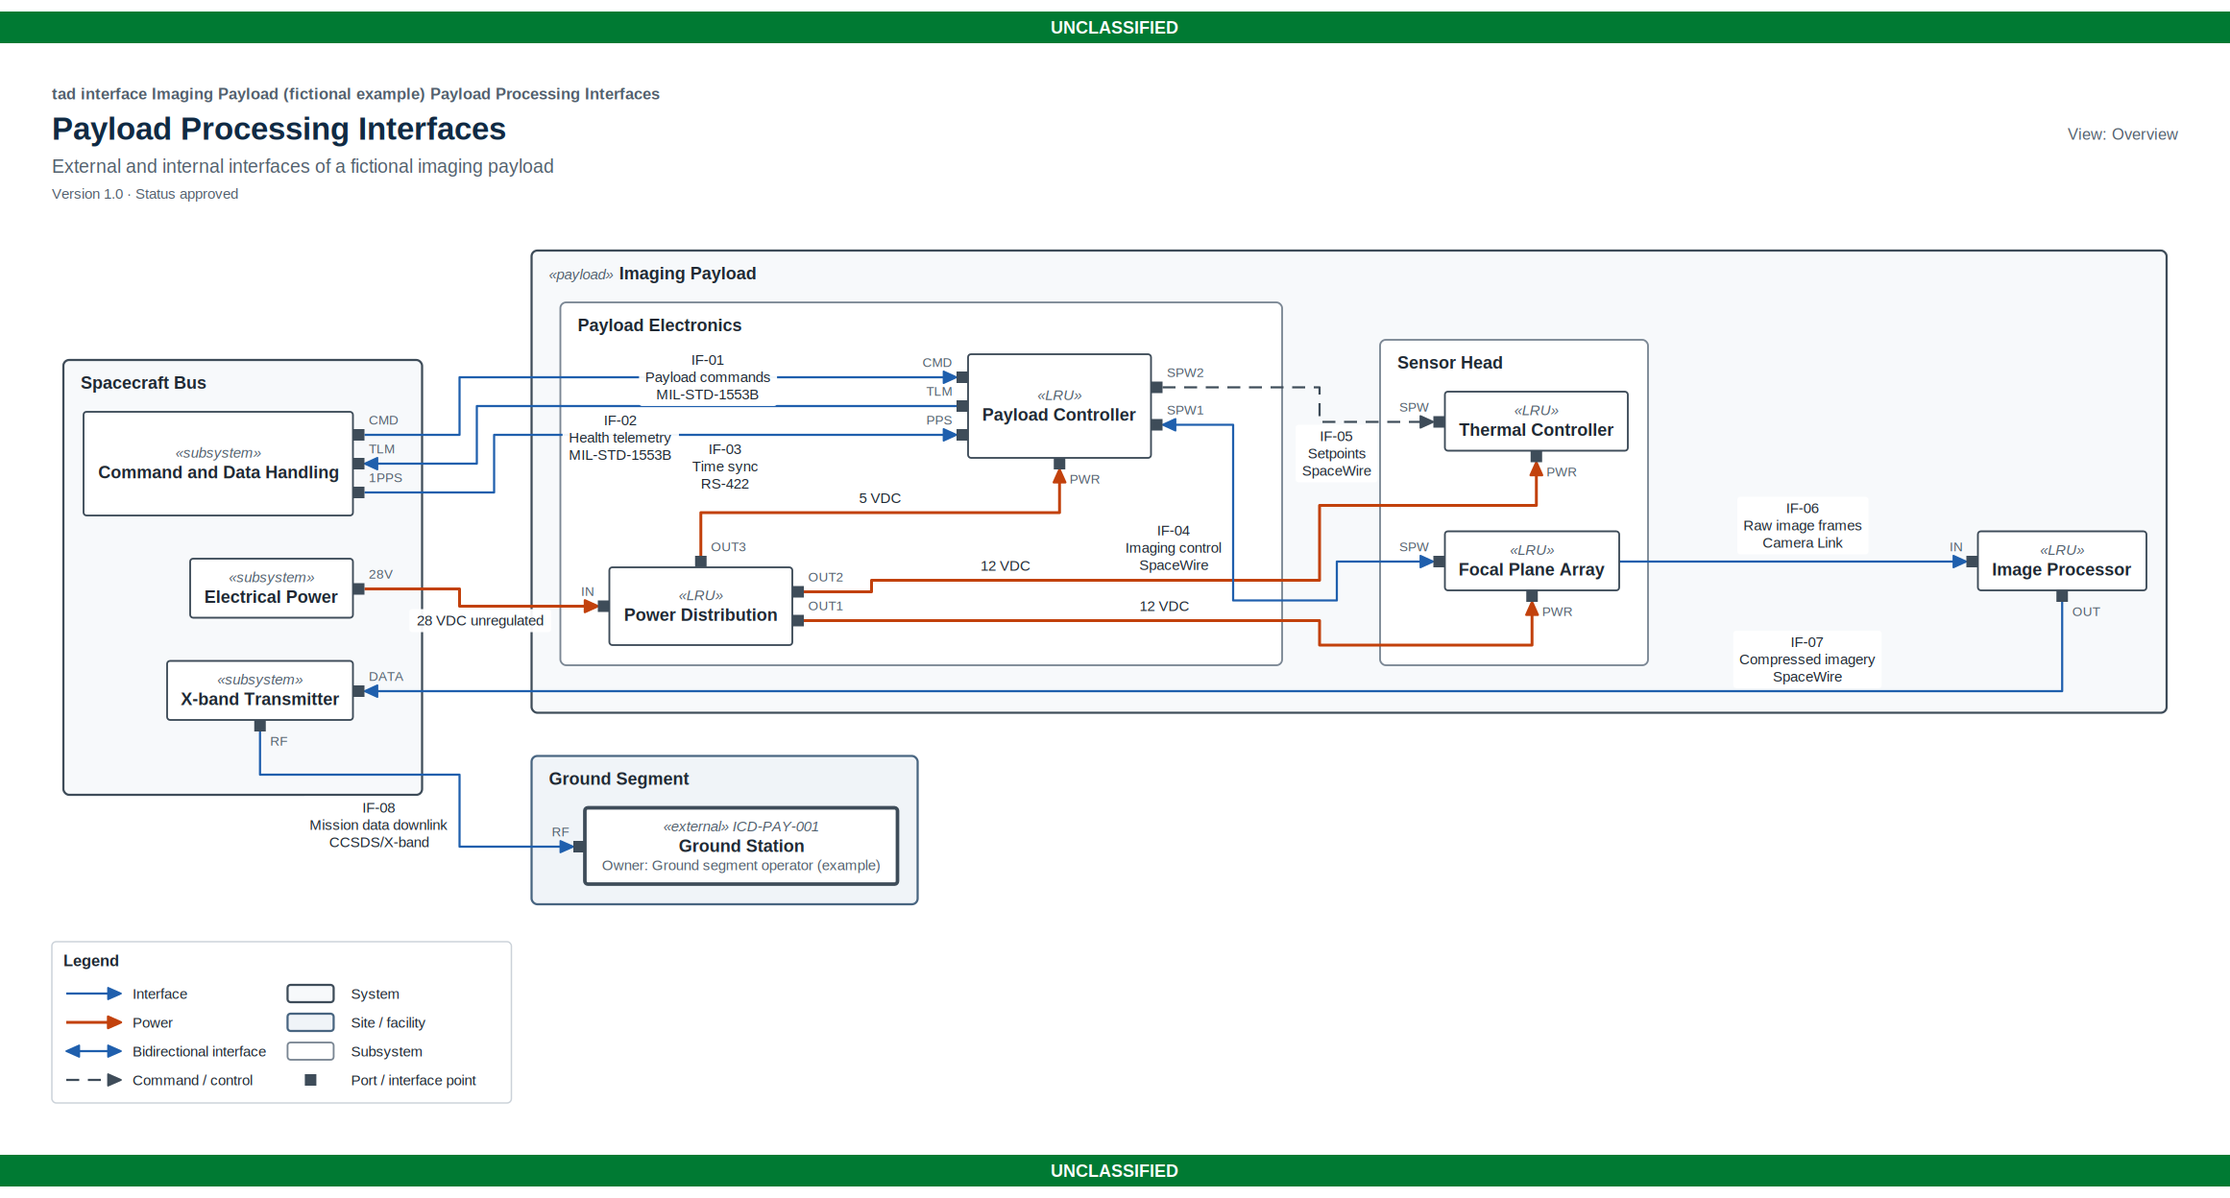
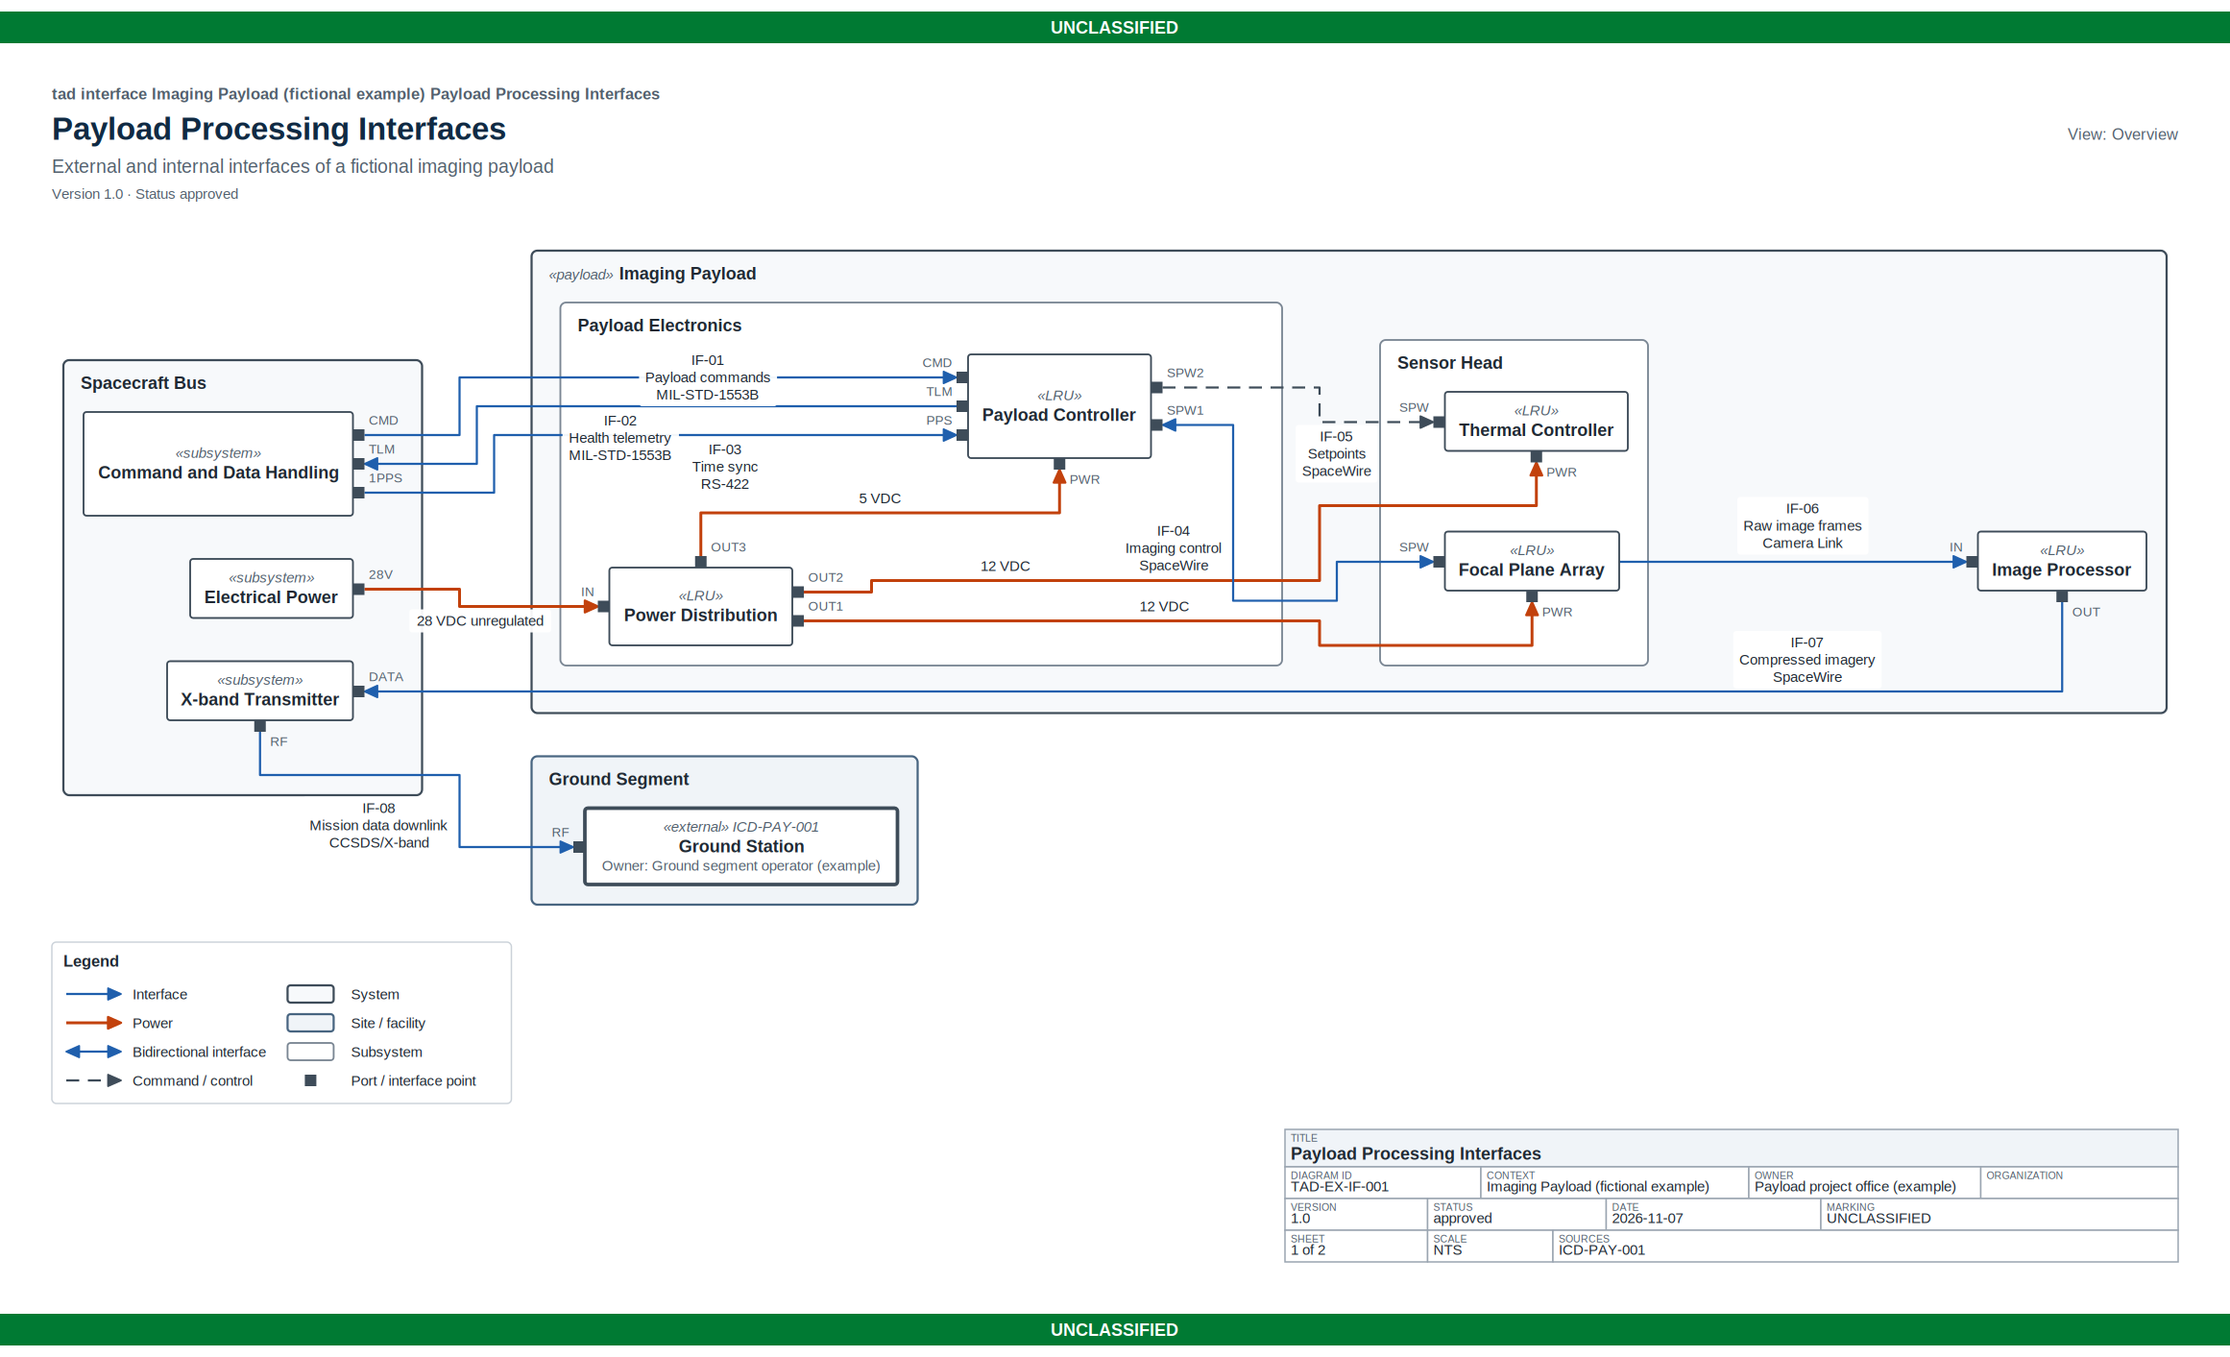
Add the generated title block (tad 0.3.0)
The released-sheet layer of the provenance profile: a title block in the
engineering drawing manner, drawn at the bottom right of every page and
generated entirely from spec metadata. On by default in strict mode, off
in light, overridable per spec with title_block.

Cells: title; diagram id, context, owner, organization; version, status,
date, marking; sheet (page n of m), scale NTS, and source ids. Approval
cells (prepared_by, checked_by, approved_by) appear only when the spec
supplies them; no date or approver is ever invented. The flag is also
recorded as tad_title_block in the .drawio metadata and in the build
report. New spec fields: organization, date, prepared_by, checked_by,
approved_by. Reference docs and the strict templates updated; the two
strict shipped examples regenerated with the block drawn.

Human-Curated, AI-Enabled (HCAE)

diff --git a/scripts/tad/layout.py b/scripts/tad/layout.py
@@ -445,9 +445,67 @@ def chips_line(spec):
     return " · ".join(chips) if chips else None
 
 
+TB_TITLE_H = 26
+TB_ROW_H = 22
+
+
+def _fit(text, size, w, bold=False):
+    """Truncate text with an ellipsis so it fits one cell of width w."""
+    t = str(text or "")
+    if T.width(t, size, bold) <= w:
+        return t
+    while t and T.width(t + "…", size, bold) > w:
+        t = t[:-1]
+    return (t + "…") if t else ""
+
+
+def make_title_block(spec, avail_w):
+    """Generated release title block (provenance profile), or None when off.
+
+    Returns {w, h, cells} with cell coordinates relative to the block origin;
+    the caller positions x/y. Every value comes from spec metadata; approval
+    cells appear only when the spec supplies them, and nothing is invented.
+    """
+    if not spec.get("title_block"):
+        return None
+    w = round(max(300, min(620, avail_w)))
+    cells = []
+    y = 0
+
+    def row(h, parts):
+        nonlocal y
+        x = 0
+        for i, (frac, label, value, is_title) in enumerate(parts):
+            cw = w - x if i == len(parts) - 1 else round(w * frac)
+            size = 12 if is_title else 10
+            cells.append(dict(dx=x, dy=y, w=cw, h=h, label=label,
+                              value=_fit(value, size, cw - 8, bold=is_title), title=is_title))
+            x += cw
+        y += h
+
+    row(TB_TITLE_H, [(1.0, "TITLE", spec["title"], True)])
+    row(TB_ROW_H, [(0.22, "DIAGRAM ID", spec.get("id"), False),
+                   (0.30, "CONTEXT", spec.get("context"), False),
+                   (0.26, "OWNER", spec.get("owner"), False),
+                   (0.22, "ORGANIZATION", spec.get("organization"), False)])
+    row(TB_ROW_H, [(0.16, "VERSION", spec.get("version"), False),
+                   (0.20, "STATUS", spec.get("status"), False),
+                   (0.24, "DATE", spec.get("date"), False),
+                   (0.40, "MARKING", spec.get("marking"), False)])
+    row(TB_ROW_H, [(0.16, "SHEET", spec.get("_sheet") or "1 of 1", False),
+                   (0.14, "SCALE", "NTS", False),
+                   (0.70, "SOURCES", ", ".join(s["id"] for s in spec.get("sources", [])), False)])
+    if any(spec.get(k) for k in ("prepared_by", "checked_by", "approved_by")):
+        row(TB_ROW_H, [(0.34, "PREPARED BY", spec.get("prepared_by"), False),
+                       (0.33, "CHECKED BY", spec.get("checked_by"), False),
+                       (0.33, "APPROVED BY", spec.get("approved_by"), False)])
+    return dict(w=w, h=y, cells=cells)
+
+
 def scene_meta(spec):
     """Spec metadata embedded into the .drawio file (the digital title block)."""
     meta = OrderedDict(kind=spec["kind"], provenance=spec.get("provenance", "light"))
+    meta["title_block"] = "on" if spec.get("title_block") else "off"
     for k in ("id", "context", "owner", "version", "status"):
         if spec.get(k):
             meta[k] = spec[k]
@@ -624,6 +682,18 @@ def _scene(spec, view, containers, nodes, edges, direction, label_edges):
         sc["notes_box"] = nb
         height = nb["y"] + nb["h"]
         width = max(width, nb["x"] + nb["w"] + MARGIN)
+
+    # Generated title block (provenance profile): bottom-right release block.
+    tb = make_title_block(spec, width - 2 * MARGIN)
+    if tb:
+        tb["x"] = max(left, round(width - MARGIN - tb["w"]))
+        tb["y"] = height + 18
+        for c in tb["cells"]:
+            c["x"] = tb["x"] + c["dx"]
+            c["y"] = tb["y"] + c["dy"]
+        sc["title_block"] = tb
+        height = tb["y"] + tb["h"]
+        width = max(width, tb["x"] + tb["w"] + MARGIN)
     height += MARGIN + (BANNER_H + 8 if spec.get("marking") else 0)
     sc["width"], sc["height"] = round(width), round(height)
     return sc
@@ -736,9 +806,21 @@ def table_scene(spec, base_scene):
                      containers=[], nodes=[], edges=[])
     tw = sum(c[2] for c in cols)
     sc["table"] = dict(x=MARGIN, y=top, cols=cols, rows=rows, row_h=rh, w=tw, h=rh * (len(rows) + 1))
-    sc["title_w"] = T.width(spec["title"], L.FONT_TITLE, bold=True)
+    sc["title_w"] = max(T.width(spec["title"], L.FONT_TITLE, bold=True),
+                        T.width(frame_line(spec), 11, bold=True))
     sc["width"] = round(max(MARGIN * 2 + tw, MARGIN * 2 + sc["title_w"]))
-    sc["height"] = round(top + rh * (len(rows) + 1) + MARGIN + (BANNER_H + 8 if spec.get("marking") else 0))
+    bottom = top + rh * (len(rows) + 1)
+    tb = make_title_block(spec, tw)
+    if tb:
+        tb["x"] = MARGIN + max(0, tw - tb["w"])
+        tb["y"] = bottom + 18
+        for c in tb["cells"]:
+            c["x"] = tb["x"] + c["dx"]
+            c["y"] = tb["y"] + c["dy"]
+        sc["title_block"] = tb
+        bottom = tb["y"] + tb["h"]
+        sc["width"] = max(sc["width"], round(tb["x"] + tb["w"] + MARGIN))
+    sc["height"] = round(bottom + MARGIN + (BANNER_H + 8 if spec.get("marking") else 0))
     sc["diagram_box"] = (MARGIN, top, tw, rh * (len(rows) + 1))
     return sc
 

diff --git a/scripts/tad/spec.py b/scripts/tad/spec.py
@@ -139,7 +139,8 @@ def normalize(raw):
         spec["marking"] = str(m).strip()
 
     # Provenance metadata (reference/provenance_profile.md): the digital title block.
-    for key in ("id", "context", "owner", "version"):
+    for key in ("id", "context", "owner", "version",
+                "organization", "date", "prepared_by", "checked_by", "approved_by"):
         v = _pick(raw, [key], fixes, "spec", key)
         if v not in (None, ""):
             spec[key] = str(v).strip()
@@ -178,6 +179,27 @@ def normalize(raw):
             issues.append(issue("WARNING", f"sources[{j}]", "source must be a string or an object"))
     if sources:
         spec["sources"] = sources
+
+    # Generated title block (provenance profile): on by default in strict mode, off in light.
+    tb = raw.get("title_block")
+    if tb is None:
+        spec["title_block"] = spec["provenance"] == "strict"
+        spec["title_block_default"] = True
+    elif isinstance(tb, bool):
+        spec["title_block"] = tb
+    else:
+        t = str(tb).strip().lower()
+        if t in ("auto", "default"):
+            spec["title_block"] = spec["provenance"] == "strict"
+            spec["title_block_default"] = True
+        elif t in ("on", "true", "yes"):
+            spec["title_block"] = True
+        elif t in ("off", "false", "no"):
+            spec["title_block"] = False
+        else:
+            issues.append(issue("ERROR", "title_block", f"unknown title_block value '{tb}'",
+                                "use true, false or auto"))
+            spec["title_block"] = spec["provenance"] == "strict"
 
     page = str(raw.get("page", "auto")).strip().lower().replace(" ", "")
     if page not in S.PAGE_SIZES:
@@ -682,7 +704,8 @@ def content_checks(spec):
             for k, v in enumerate(x):
                 scan(v, f"{path}[{k}]")
     for key in ("title", "subtitle", "marking", "edges", "views",
-                "id", "context", "owner", "version", "sources", "notes"):
+                "id", "context", "owner", "version", "sources", "notes",
+                "organization", "date", "prepared_by", "checked_by", "approved_by"):
         if key in spec:
             scan(spec[key], key)
     for i, e in enumerate(spec["edges"]):

diff --git a/scripts/make_tad.py b/scripts/make_tad.py
@@ -104,6 +104,7 @@ def main(argv=None):
     report["tool_version"] = __version__
     report["provenance"] = spec.get("provenance", "light")
     report["provenance_default"] = bool(spec.get("provenance_default"))
+    report["title_block"] = bool(spec.get("title_block"))
 
     issues += SP.content_checks(spec)
     if not T.font_available():
@@ -136,9 +137,11 @@ def main(argv=None):
 
     issues += C.spec_checks(spec)
     views = spec.get("views") or [None]
+    total_pages = len(views) + (1 if spec.get("interface_table") and spec["edges"] else 0)
     scenes = []
     try:
         for vi, v in enumerate(views):
+            spec["_sheet"] = f"{vi + 1} of {total_pages}"
             sc = LY.layout_view(spec, v, issues, "" if vi == 0 else "v")
             issues += C.scene_checks(sc, spec, len(views) > 1)
             scenes.append(sc)
@@ -149,6 +152,7 @@ def main(argv=None):
         _print(report, "INVALID", None, clean_path, fixes, dedupe(issues), None)
         return 2
     if spec.get("interface_table") and spec["edges"]:
+        spec["_sheet"] = f"{total_pages} of {total_pages}"
         scenes.append(LY.table_scene(spec, scenes[0]))
 
     D.write(scenes, a.out)
@@ -207,6 +211,7 @@ def _print(report, result, out, clean, fixes, issues, extras):
     if report.get("provenance"):
         print(f"PROVENANCE: {report['provenance']}"
               + (" (default for kind)" if report.get("provenance_default") else "")
+              + f"  TITLE BLOCK: {'on' if report.get('title_block') else 'off'}"
               + f"  TOOL: tad {report.get('tool_version', '')}  SPEC SHA256: {report.get('spec_sha256', '')[:16]}...")
     for v in report["views"]:
         print(f"VIEW {v['name']!r}: {v['nodes']} nodes, {v['edges']} edges, {v['crossings']} crossings, "

diff --git a/scripts/tad/drawio.py b/scripts/tad/drawio.py
@@ -137,6 +137,8 @@ def page_from_scene(sc):
 
     if sc.get("table"):
         _table(pg, sc, th)
+        if sc.get("title_block"):
+            _title_block(pg, sc["title_block"], th)
         return pg.diagram
 
     absb = {}
@@ -253,7 +255,23 @@ def page_from_scene(sc):
                    "fillColor": "#FFFBEA", "strokeColor": "#CBD2D9", "verticalAlign": "top", "align": "left",
                    "spacingLeft": 8, "spacingTop": 2, "fontSize": L.FONT_LEGEND, "fontFamily": th["font"],
                    "fontColor": _h(th["text"])}, nb["x"], nb["y"], nb["w"], nb["h"])
+    if sc.get("title_block"):
+        _title_block(pg, sc["title_block"], th)
     return pg.diagram
+
+
+def _title_block(pg, tb, th):
+    for i, c in enumerate(tb["cells"]):
+        value = f'<span style="font-size:7px;color:{_h(th["muted"])}">{hesc(c["label"])}</span>'
+        if c["value"]:
+            v = f"<b>{hesc(c['value'])}</b>" if c["title"] else hesc(c["value"])
+            value += f'<br><span style="font-size:{12 if c["title"] else 10}px">{v}</span>'
+        pg.vertex(f"tb{i}", value,
+                  {"rounded": 0, "html": 1, "whiteSpace": "wrap",
+                   "fillColor": "#F0F4F8" if c["title"] else "#FFFFFF", "strokeColor": "#9AA5B1",
+                   "verticalAlign": "top", "align": "left", "spacingLeft": 4, "spacingTop": 1,
+                   "fontSize": 10, "fontFamily": th["font"], "fontColor": _h(th["text"])},
+                  c["x"], c["y"], c["w"], c["h"])
 
 
 def _anchor(prefix, pt, b):

diff --git a/scripts/tad/svg.py b/scripts/tad/svg.py
@@ -80,6 +80,8 @@ def render(sc):
 
     if sc.get("table"):
         o += _table(sc, th)
+        if sc.get("title_block"):
+            o += _title_block(sc["title_block"], th)
         o.append("</svg>")
         return "\n".join(o)
 
@@ -131,8 +133,23 @@ def render(sc):
         o += _legend(sc["legend"], th)
     if sc.get("notes_box"):
         o += _notes(sc["notes_box"], th)
+    if sc.get("title_block"):
+        o += _title_block(sc["title_block"], th)
     o.append("</svg>")
     return "\n".join(o)
+
+
+def _title_block(tb, th):
+    o = []
+    for c in tb["cells"]:
+        fill = "#F0F4F8" if c["title"] else "#FFFFFF"
+        o.append(f'<rect x="{c["x"]:.1f}" y="{c["y"]:.1f}" width="{c["w"]:.1f}" height="{c["h"]:.1f}" '
+                 f'fill="{fill}" stroke="#9AA5B1" stroke-width="1"/>')
+        o.append(_text(c["x"] + 4, c["y"] + 8.5, c["label"], 7, th["muted"]))
+        if c["value"]:
+            o.append(_text(c["x"] + 4, c["y"] + c["h"] - 5, c["value"], 12 if c["title"] else 10,
+                           th["text"], bold=c["title"]))
+    return o
 
 
 def _notes(nb, th):

diff --git a/scripts/tad/__init__.py b/scripts/tad/__init__.py
@@ -1,2 +1,2 @@
 """Technical Architecture Diagram engine: spec -> ELK layout -> draw.io + SVG."""
-__version__ = "0.2.0"
+__version__ = "0.3.0"

diff --git a/SKILL.md b/SKILL.md
@@ -43,7 +43,7 @@ Copy the template (for example to `spec.json`) and replace every `<<...>>` with 
 7. **Labels:** short and specific. An edge label has at most three lines: label, data, protocol/port. Put long detail in the interface table rather than on the line.
 8. **Delete** template items you have no content for. Never leave `<<...>>`.
 9. **Density:** more than about 40 nodes on one page gets hard to read. Add `views`: a full view plus summary views that `collapse` containers, filter `edge_types`, or `include` one area.
-10. **Provenance:** every diagram gets a frame header from its metadata (`id`, `context`, `owner`, `version`, `status`, `sources`). `interface` and `dataflow` specs are strict by default: those fields are required, external elements need `owner` and `source_ref`, and boundary-crossing flows need a `marking`. Other kinds are light. Full rules: `reference/provenance_profile.md`.
+10. **Provenance:** every diagram gets a frame header from its metadata (`id`, `context`, `owner`, `version`, `status`, `sources`). `interface` and `dataflow` specs are strict by default: those fields are required, external elements need `owner` and `source_ref`, boundary-crossing flows need a `marking`, and a generated title block is drawn (set `title_block` to override). Other kinds are light and draw no title block by default. Full rules: `reference/provenance_profile.md`.
 
 Before the first build, check the spec and see the limits:
 ```

diff --git a/reference/spec_reference.md b/reference/spec_reference.md
@@ -19,6 +19,10 @@ Numeric limits are not repeated here. See `reference/limits.md` or run `python3 
 | `version` | no | Diagram version, drawn as a header chip. |
 | `status` | no | `draft`, `review`, or `approved`. Drawn as a header chip. Required in strict mode. |
 | `provenance` | no | `light` or `strict` (provenance profile). Defaults to `strict` for `interface` and `dataflow`, `light` otherwise. |
+| `title_block` | no | `true`, `false`, or `auto`: draw the generated title block (provenance profile). Defaults to on in strict mode, off in light. |
+| `organization` | no | Organization named in the title block. |
+| `date` | no | Date shown in the title block, as written (e.g. `2026-11-07`). Never invented: no date field, no date in the block. |
+| `prepared_by`, `checked_by`, `approved_by` | no | Approval names for the title block. The approval row appears only when at least one is set. |
 | `sources` | no | Authority references: a list of `{"id", "title"}` objects (or plain id strings). Embedded in the .drawio file; `trace` targets resolve against it. |
 | `notes` | no | Rationale/problem notes: `{"id", "kind" (rationale\|problem), "anchor" (element id), "text", "show"}`. Drawn in a notes panel only when `show` is true. |
 | `page` | no | `auto` (default), `letter`, `legal`, `tabloid`, `a4`, `a3`, `a2`. With a fixed page, the PDF is scaled to fit and the checker fails the build if the scale would drop below the minimum. |

diff --git a/reference/provenance_profile.md b/reference/provenance_profile.md
@@ -59,6 +59,24 @@ diagram properties, and the build report records the spec hash and
 tool version, so a rendered page can be traced back to the exact
 spec that produced it.
 
+## Generated title block
+
+The released-sheet layer: a title block in the engineering drawing
+manner, drawn at the bottom right of every page and generated
+entirely from the spec metadata above. It is **on by default in
+strict mode and off in light mode**; a spec overrides either way
+with `"title_block": true` or `false`.
+
+Cells: title; diagram id, context, owner, organization; version,
+status, date, marking; sheet (page n of m), scale (always NTS:
+these diagrams are not to scale), and the source ids. Approval
+cells (prepared by, checked by, approved by, from the optional
+`prepared_by`, `checked_by`, `approved_by` fields) appear only when
+the spec supplies them; the tool never invents an approver or a
+date, so a missing `date` leaves the date cell blank. Revision
+history itself stays with the repository; the version cell carries
+the current revision.
+
 ## Element provenance
 
 Nodes and containers may carry:
